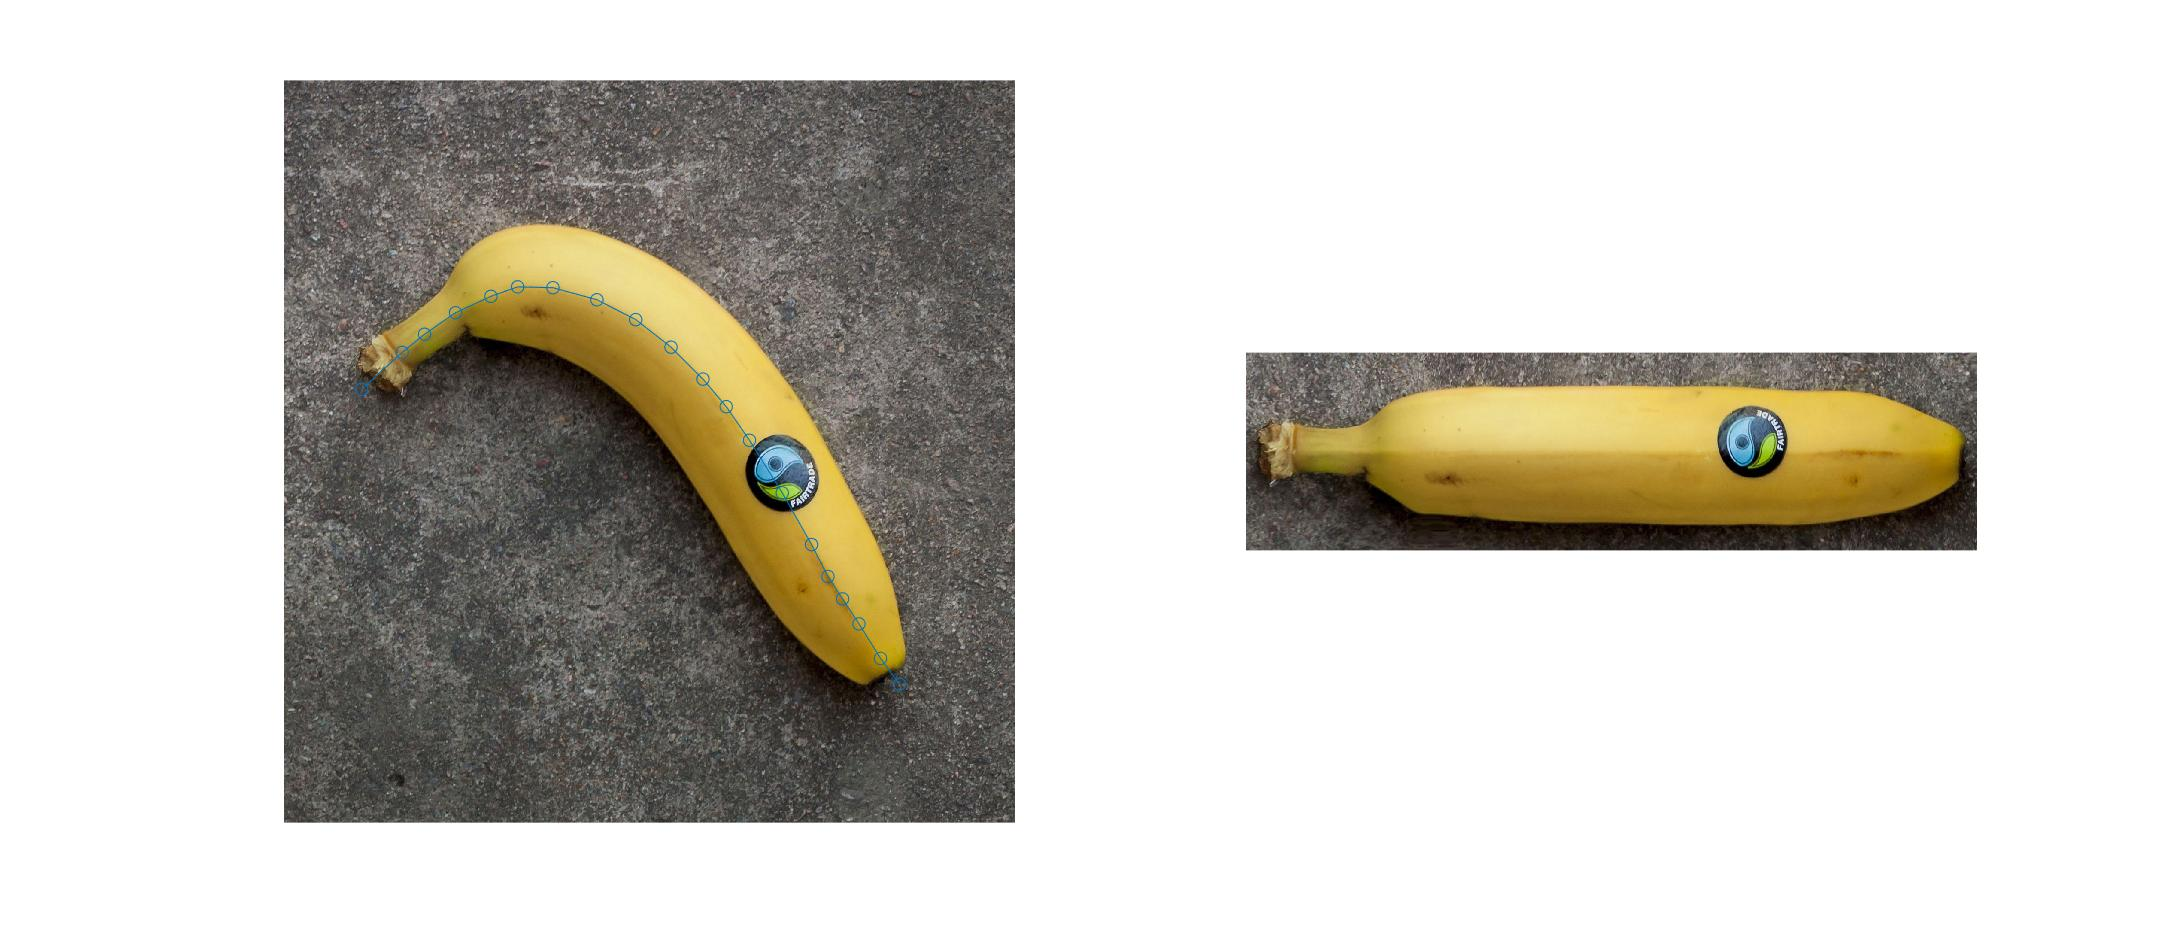
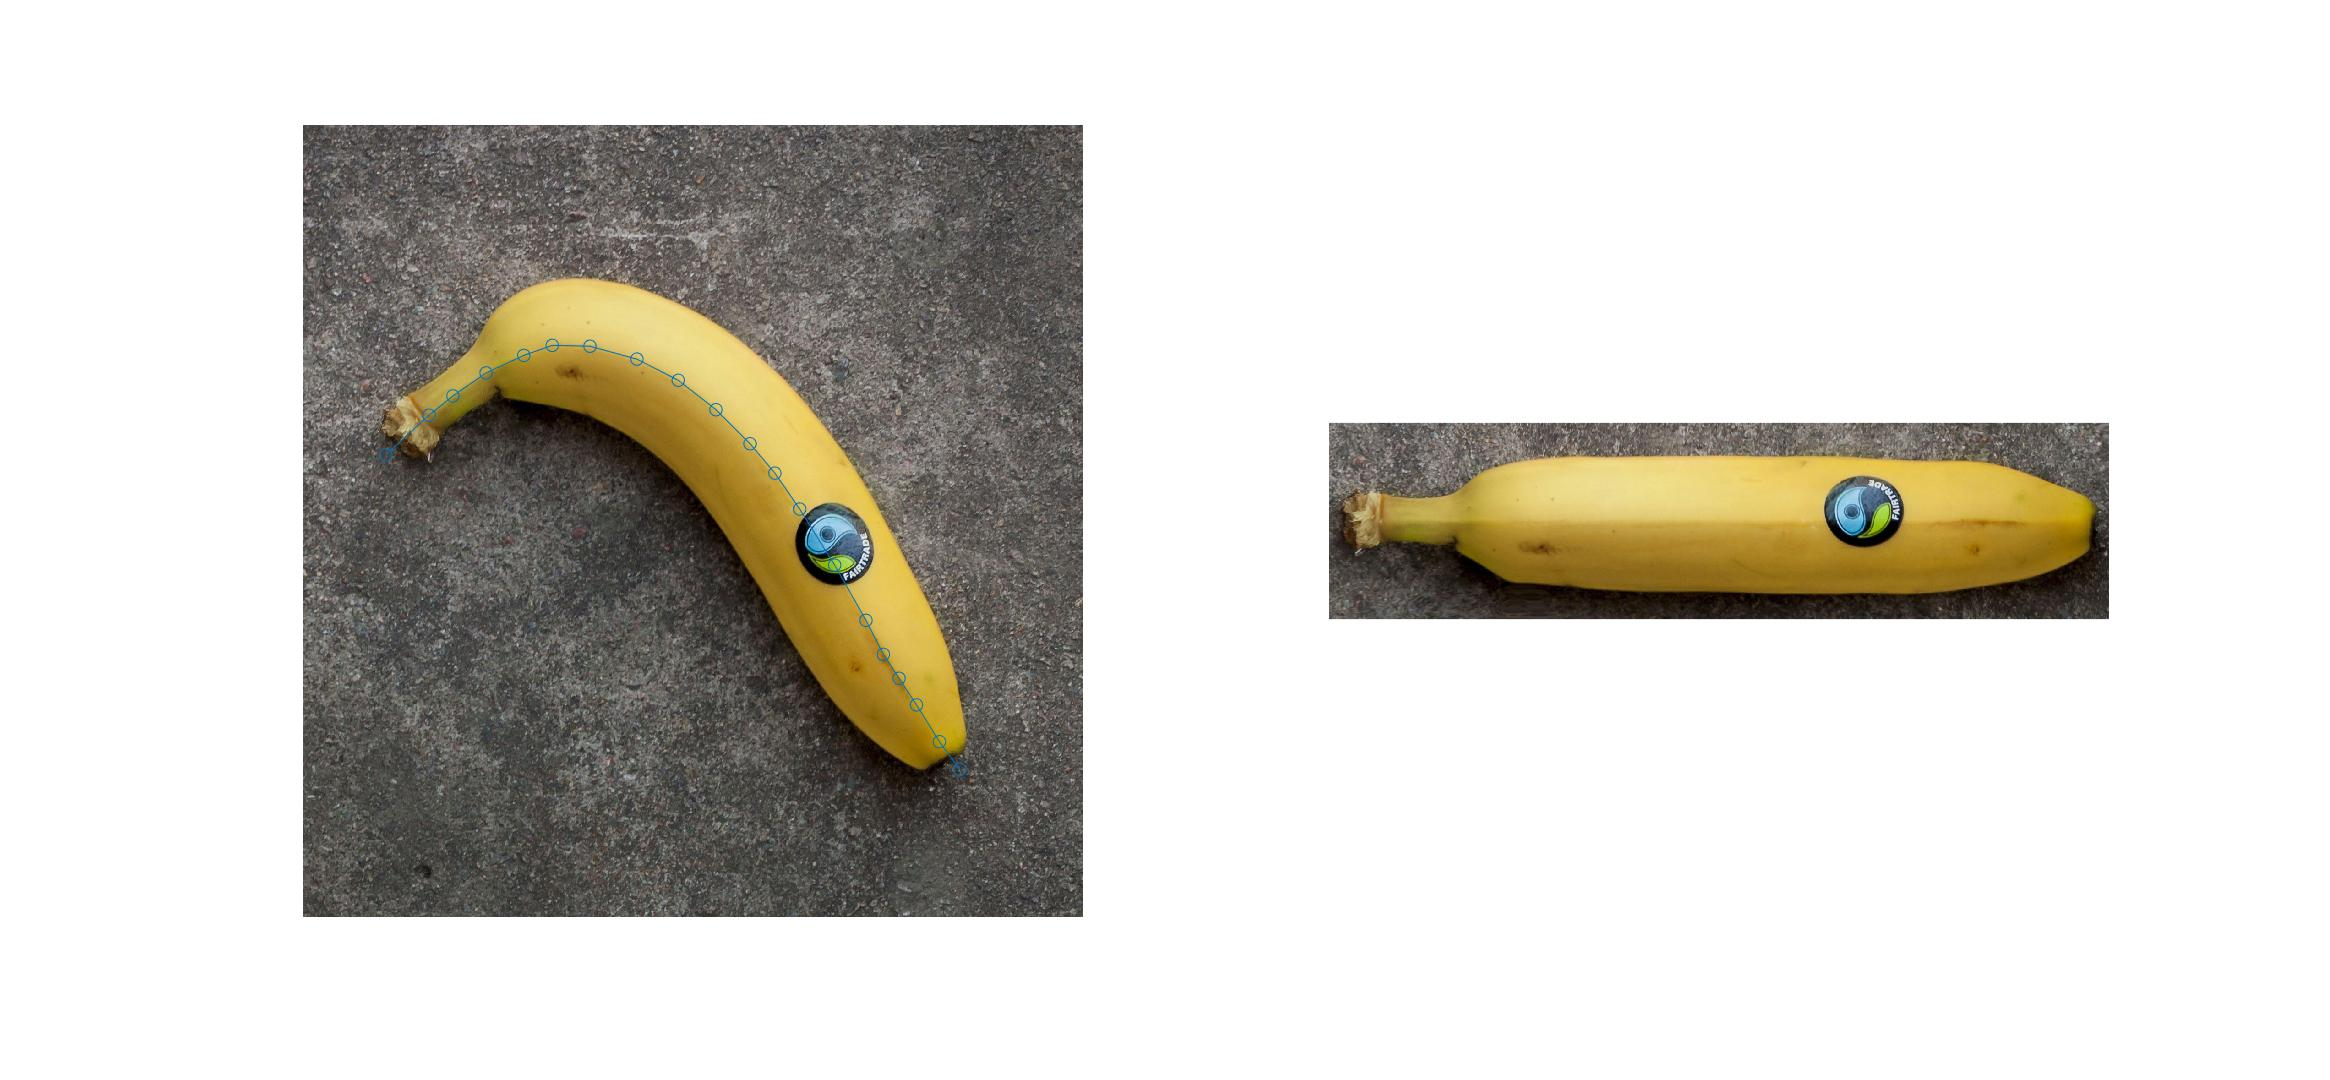
Fixed an error in spline generation

Changed region(s): [[0.1245, 0.4647, 0.467, 0.8985], [0.1245, 0.062, 0.467, 0.4647], [0.5604, 0.3718, 0.9029, 0.5887]]

diff --git a/straighten.m b/straighten.m
@@ -72,19 +72,31 @@ end
 function [xspl,yspl] = fitSplineForStraightening(xVal,yVal)
 %return a spline fit with distances of 1 between the points
 %based on https://github.com/imagej/imagej1/blob/master/ij/gui/PolygonRoi.java#L1006
-dx=0.1;
+
+%get linelength in pixels
+tL = sum(sqrt(diff(xVal).^2+diff(yVal).^2));
+%generate intermediate spline with approximately half pixel steps 
 pp = spline(xVal,yVal);
-xspl(1)=xVal(1);yspl(1)=yVal(1);
-xspl(2)=xVal(1);yspl(2)=yVal(1);
-ct=2;
-while xspl(end-1)<xVal(end)
-    xspl(ct)=xspl(ct)+dx;
-    yspl(ct)=ppval(pp,xspl(ct));
-    d = (xspl(ct-1)-xspl(ct))^2+(yspl(ct-1)-yspl(ct))^2;
-    if d>1
-        ct=ct+1;
-        xspl(ct)=xspl(ct-1);
+xIspl = linspace(xVal(1),xVal(end),round(tL*2));
+yIspl = ppval(pp,xIspl);
+L=0;%measure spline distance
+%generate spline
+xspl(1) = xVal(1);
+yspl(1) = yVal(1);
+L=0; %keep track of length of spline
+ptw = 1; %points written
+for ct = 2:length(xIspl)
+    dx=xIspl(ct)-xIspl(ct-1);
+    dy=yIspl(ct)-yIspl(ct-1);
+    d = sqrt(dx^2+dy^2);
+    L=L+d;
+    overshoot = L-ptw;
+    if overshoot>0 %we went over the length, must add a point on the spline
+        ptw=ptw+1;
+        frac = overshoot/d; %fractional overshoot for the last step
+        %move back in a straight line towards the previous point
+        xspl(ptw) = xIspl(ct) - frac*dx;
+        yspl(ptw) = yIspl(ct) - frac*dy;
     end
 end
-xspl(end)=[];
 end
